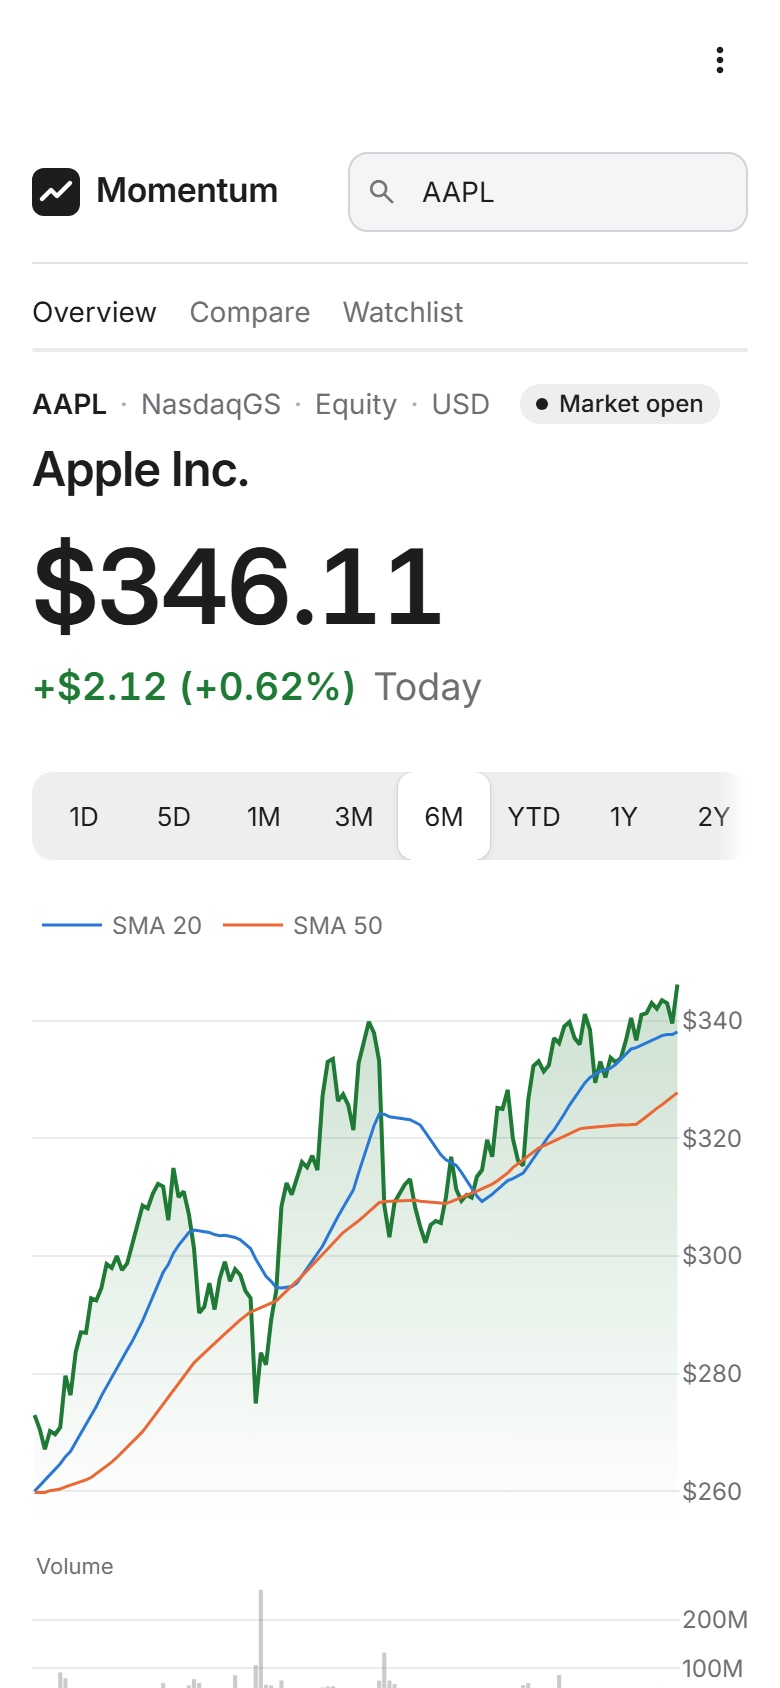
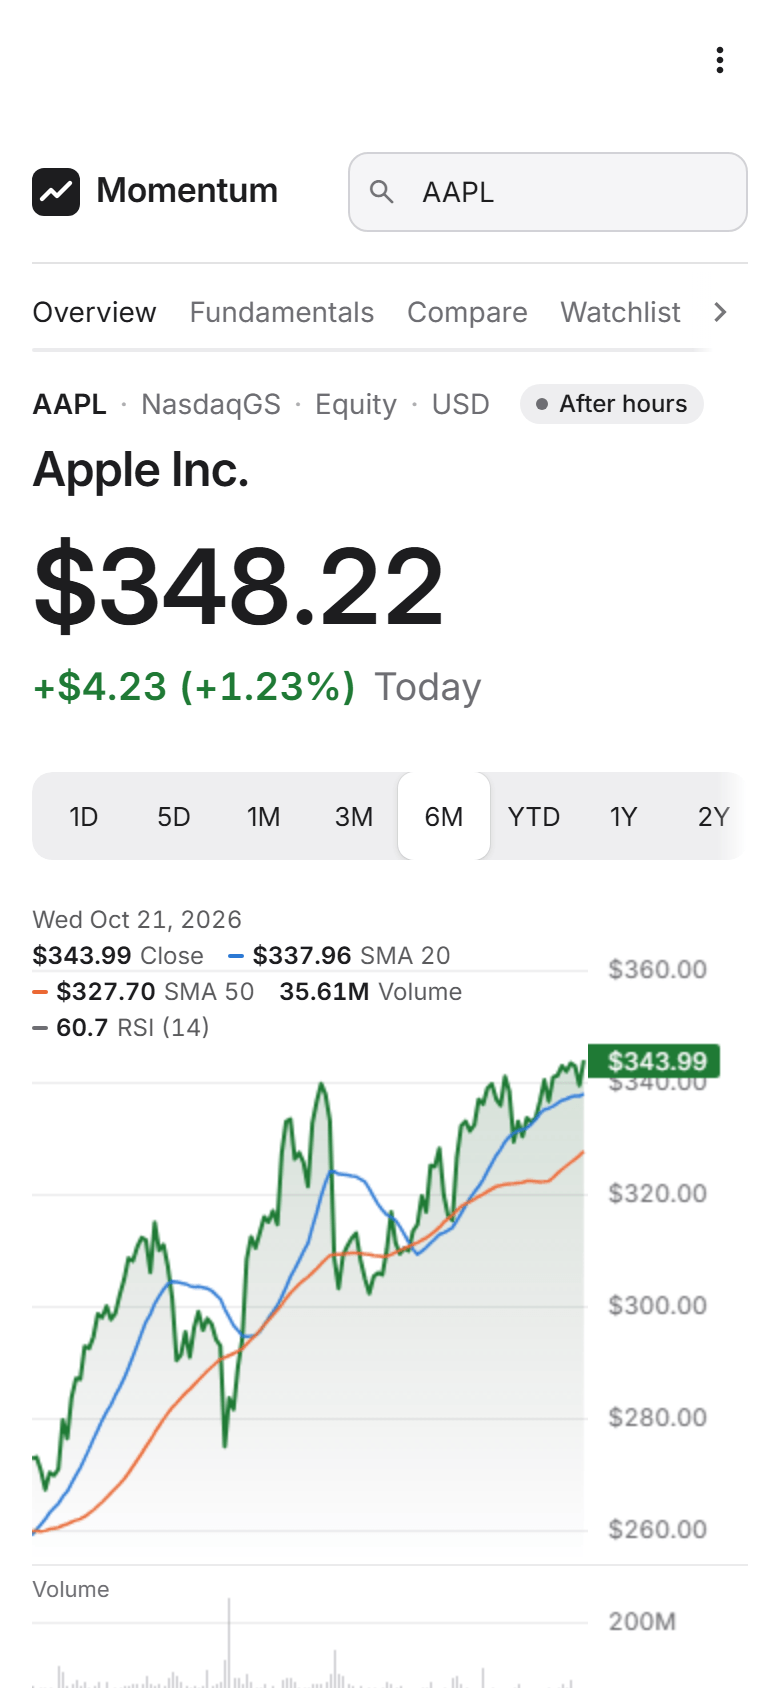
docs: refresh screenshots with live data; add fundamentals, portfolio, alerts
Captured from serve.py against live Yahoo data on 23 Oct 2026, the
portfolio and alerts from a sample viewer. The capture now also waits for
any rerun started during its settle pause and for lazily loaded skeletons
to resolve; both had produced half-loaded frames. Images palette-compressed
with sharp (1.3 MB to 0.5 MB).

diff --git a/scripts/capture_screenshots.py b/scripts/capture_screenshots.py
@@ -20,6 +20,8 @@ from playwright.sync_api import Browser, Page, sync_playwright
 OUT_DIR = Path(__file__).resolve().parents[1] / "docs" / "screenshots"
 RAIL = '[data-testid="stBidiComponentIsolated"]'
 TABLE = '[data-testid="stDataFrame"] canvas'
+# Present while a script run is in progress or a lazily loaded element is still a placeholder.
+BUSY = '[data-testid="stStatusWidget"], .stSkeleton, [data-testid="stSkeleton"]'
 
 
 def wait_for_app(page: Page, *, charts: int = 1, selector: str | None = None) -> None:
@@ -36,6 +38,10 @@ def wait_for_app(page: Page, *, charts: int = 1, selector: str | None = None) ->
     )
     page.wait_for_function("document.fonts.status === 'loaded'", timeout=30_000)
     page.wait_for_timeout(2_000)
+    # A lazy element or a timed fragment can start another run during the pause, and lazily
+    # loaded elements show a skeleton until their code arrives.
+    page.wait_for_function(f"!document.querySelector('{BUSY}')", timeout=90_000)
+    page.wait_for_timeout(500)
 
 
 def shoot(page: Page, url: str, name: str, *, charts: int = 1, selector: str | None = None) -> None:

diff --git a/README.md b/README.md
@@ -12,8 +12,9 @@
 A fast, mobile-friendly Streamlit dashboard for global stocks, indices, ETFs, FX and crypto.
 Type any Yahoo Finance symbol (`AAPL`, `LT.NS`, `VOD.L`, `^GSPC`, `BTC-USD`) to get an
 area-line or candlestick chart with technical indicators, key statistics, a company profile,
-multi-symbol comparison and a watchlist. All of it is backed by a typed, tested data layer that
-degrades gracefully when Yahoo misbehaves.
+fundamentals, multi-symbol comparison, a saved watchlist, a portfolio with FIFO profit and loss,
+and price and indicator alerts. All of it is backed by a typed, tested data layer that degrades
+gracefully when Yahoo misbehaves.
 
 ![Overview, light theme: price header, area chart with SMA overlays, and the watchlist rail](docs/screenshots/overview-light.png)
 
@@ -30,9 +31,16 @@ degrades gracefully when Yahoo misbehaves.
 
 ![One crosshair through the price, volume, RSI and MACD panels, with a readout listing every series](docs/screenshots/crosshair.png)
 
-<sub>Screenshots show live Yahoo Finance data (the 22 Oct 2026 US session), captured from the
-Docker image with <code>scripts/capture_screenshots.py</code> on 23 Oct 2026. The hero image above
-is an illustration and shows no market data.</sub>
+| Fundamentals | Portfolio |
+| --- | --- |
+| ![Fundamentals: revenue, margins and dividend tiles above the annual income statement](docs/screenshots/fundamentals.png) | ![Portfolio: value and profit and loss per currency above the holdings table](docs/screenshots/portfolio.png) |
+
+![Alerts: the new-alert form and four saved alerts on price, RSI, a moving-average cross and day change](docs/screenshots/alerts.png)
+
+<sub>Screenshots show live Yahoo Finance data (the 22 Oct 2026 US session), captured with
+<code>scripts/capture_screenshots.py</code> from <code>serve.py</code> on 23 Oct 2026. The portfolio
+and alerts belong to a sample viewer created for the captures. The hero image above is an
+illustration and shows no market data.</sub>
 
 ## Features
 
